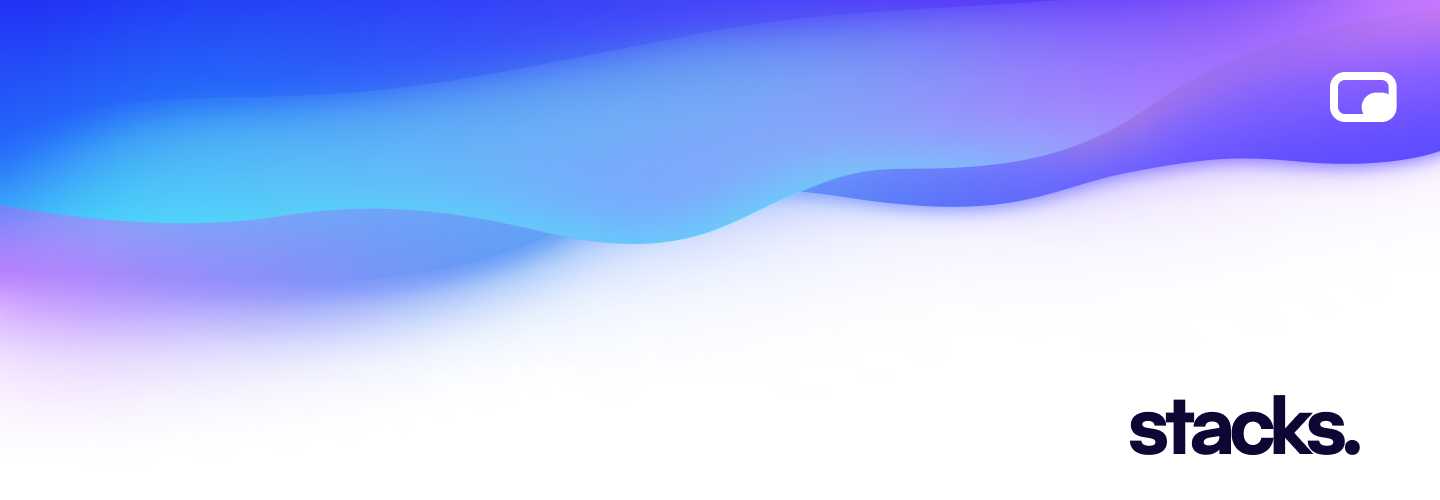
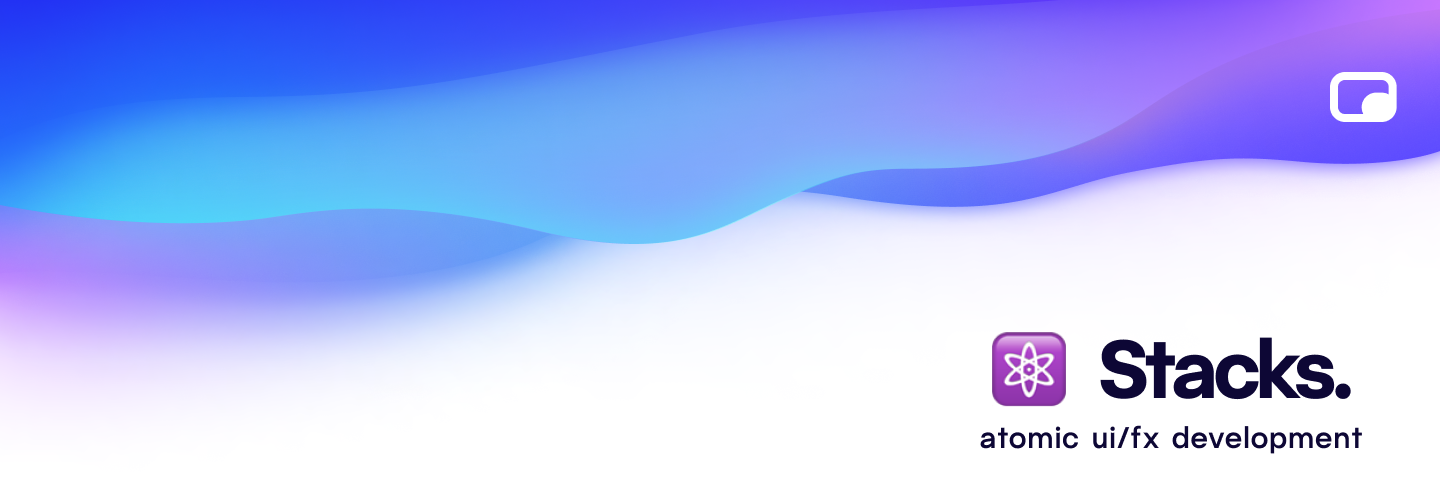
chore: update readme social image & node notice

Changed region(s): [[0.6562, 0.66, 0.9688, 0.93]]

diff --git a/README.md b/README.md
@@ -42,7 +42,8 @@ It's incredibly easy to get started with this framework. You may "Use this templ
 npx artisan make:stack hello-world
 ```
 
-Please ensure to use Node.js v16.10 or higher. _Stacks is also `fnm` & `nvm` friendly._
+> **Note**
+> Node.js v16.10 or higher required. _Stacks is `fnm` & `nvm` friendly._
 
 ## 🤖 Usage
 
